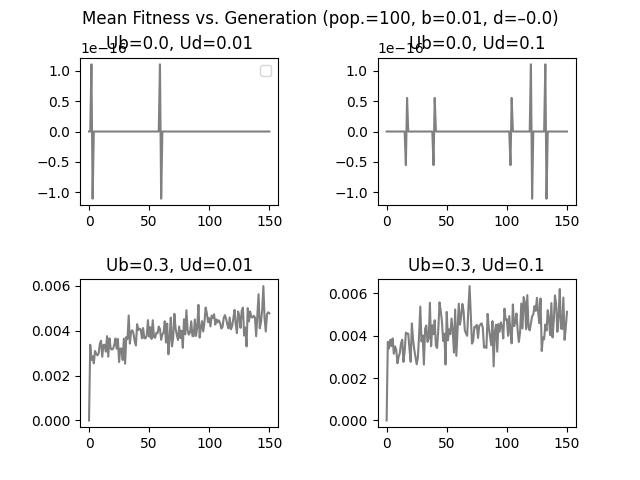
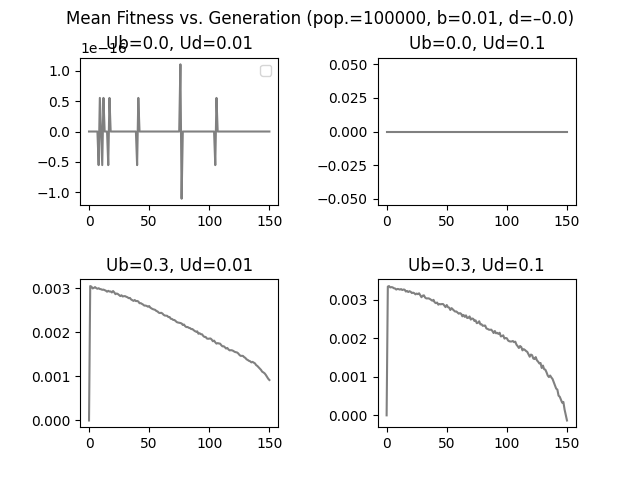
Custom fitness function and correct plotting

diff --git a/simple-fitness-tracking.py b/simple-fitness-tracking.py
@@ -12,7 +12,7 @@ def fitness_function(fitness):
     For example, the fitness function y = sigmoid(x) would create populations that tend towards higher fitnesses but with logistic growth
     In contrast, trigonometric functions may create populations that diverge in their fitnesses as sub-populations tend towards different local extrema
     """
-    return fitness
+    return 1 - (fitness - 0.1) ** 2 # should make fitness converge to 0.1
 
 def next_gen(population, fitnesses, Ub, b, Ud, d, fitness_function):
     """
@@ -77,17 +77,17 @@ def simulate(population, generations, starting_fitness, b, d, Ubs, Uds, runs, fi
                     differences = [0]
                     k = 1
                     while k < len(mean_fitnesses):
-                        differences.append(mean_fitnesses[k] - mean_fitnesses[k - 1])
+                        differences.append(mean_fitnesses[k] - mean_fitnesses[0]) # plots net change since last generation rather than arbitrary constant
                         k += 1
 
                     axs[i][j].plot(range(len(fitnesses)), differences, color='gray')
                     axs[i][j].set_title(f'Ub={Ub}, Ud={Ud}')
 
             x = np.linspace(0, generations, 1000)
-            y1 = [population * Ub * b**2 * i for i in x]
-            y2 = [(b**2 * ((2 * np.log(population * b) - (np.log(b) - np.log(Ub))) / (np.log(b) - np.log(Ub)))) * i for i in x]
-            # axs[i][j].plot(x, y2, label='Common Beneficial Mutations', color='red') These lines plot predicted regime models from Desai & Fisher
-            # axs[i][j].plot(x, y1, label='Successive Mutations', color='blue')
+            y1 = [Ub * b**2 * i for i in x] # successive mutations model
+            y2 = [(b**2 * ((2 * np.log(population * b) - (np.log(b) - np.log(Ub))) / (np.log(b) - np.log(Ub)))) * i / population for i in x]
+            axs[i][j].plot(x, y2, label='Common Beneficial Mutations', color='red') # These lines plot predicted regime models from Desai & Fisher
+            axs[i][j].plot(x, y1, label='Successive Mutations', color='blue')
             if i == 0 and j == 0:
                 axs[i][j].legend()
 
@@ -97,19 +97,21 @@ def simulate(population, generations, starting_fitness, b, d, Ubs, Uds, runs, fi
     if plot:
         plt.savefig(f'imgs/{generations} generations, {runs} runs')
 
+    return 'Output from simulate()'
+
 if __name__=='__main__':
 
     start_time = time.time()
 
-    population = 10 ** 2
-    generations = 150
+    population = 10 ** 5
+    generations = 200
     starting_fitness = 0.5
-    b = 0.01
-    d = -0.0 # make d = 0 when comparing against desai/fisher eqns for mean fitness growth
-    Ubs = [round(i * 1000)/1000 for i in np.linspace(10**-4, 0.3, 2)]
-    Uds = [round(i*100)/100 for i in np.linspace(10**-2, 10**-1, 2)]
+    b = 0.1
+    d = -0.1 # make d = 0 when comparing against desai/fisher eqns for mean fitness growth
+    Ubs = [round(i * 1000)/1000 for i in np.linspace(10**-3, 0.1, 2)]
+    Uds = [round(i*100)/100 for i in np.linspace(0, 0, 2)]
 
-    runs = 1
+    runs = 10
     with alive_progress.alive_bar(runs * len(Ubs) * len(Uds) * generations, bar='notes') as bar:
         for i in simulate(population, generations, starting_fitness, b, d, Ubs, Uds, runs, fitness_function=fitness_function, plot=True):
             # print(i)
